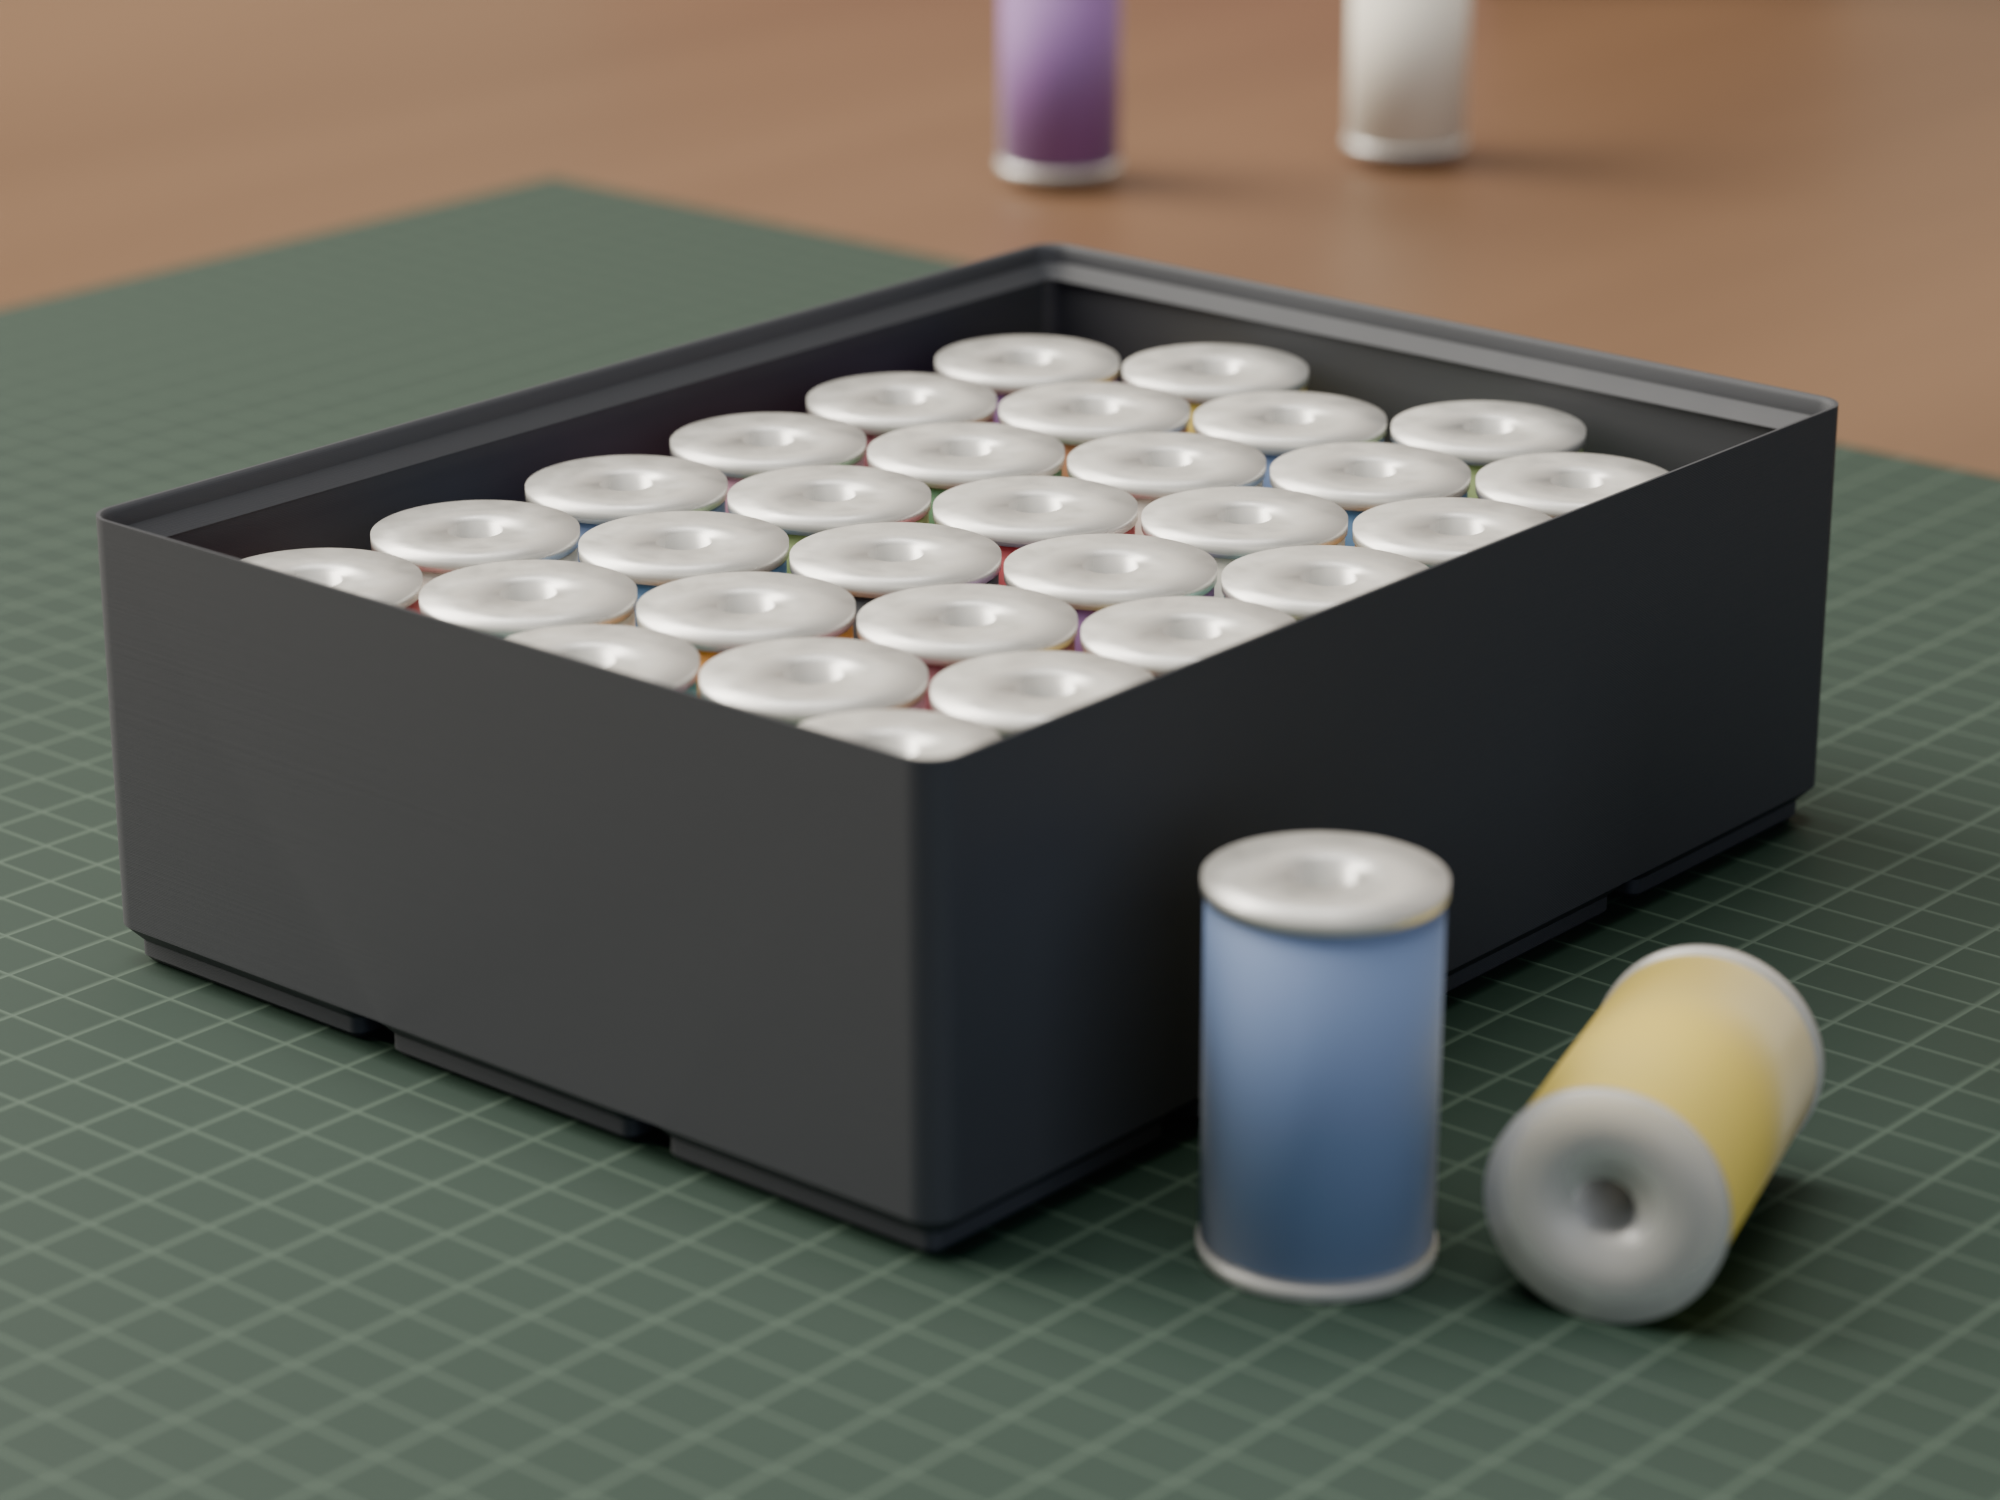
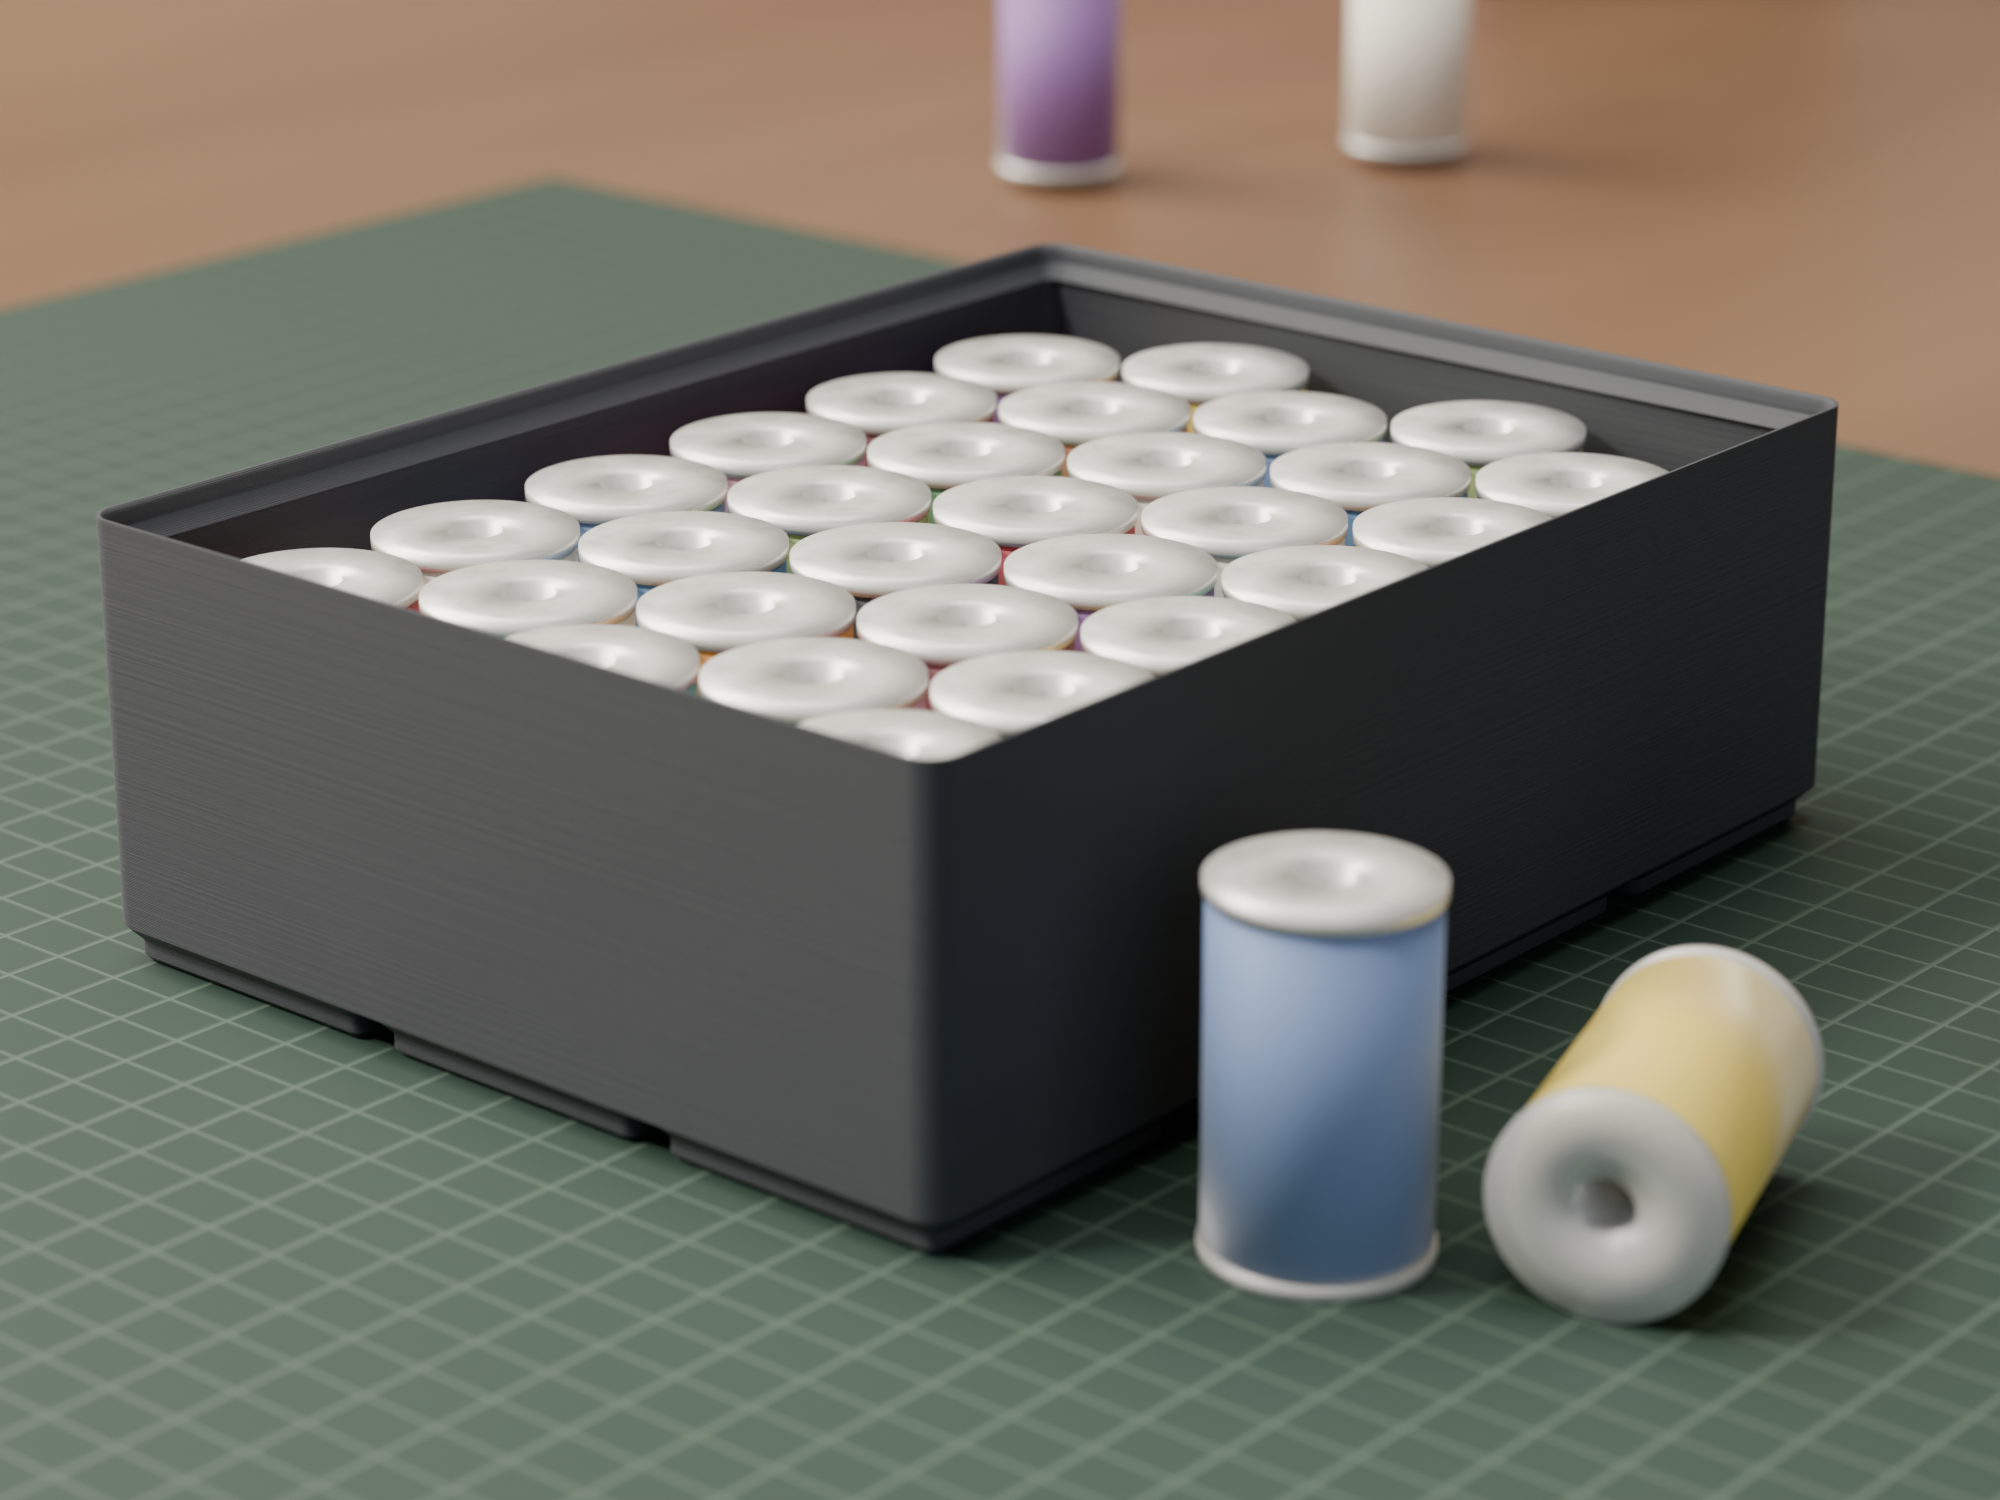
Make layer lines actually visible at listing framing
The physically measured 45um envelope is correct and invisible. Bump shades
weaker than displacement, the Cycles denoiser eats 2-3px detail, and the 1.5m
window is soft enough to shade micro relief almost not at all -- so the hero
came back looking like smooth injection moulded plastic.

Raised the bump envelope to 190um for the non-displaced path and added a
small harder accent raking down the front walls. That is above the measured
surface roughness and I am choosing it deliberately: a listing image has to
show the part is printed, and nobody buying a model cares that the relief is
4x the true Ra.

The material_detail shot keeps real displacement at the measured 45um, so the
close-up stays physically honest while the listing shots are legible.

Claude-Session: https://claude.ai/code/session_01Jk8rMwnMvfnDQXcvgpwSRv

diff --git a/tools/render.py b/tools/render.py
@@ -410,7 +410,7 @@ def filament_material(name, colour, displace=False):
     micro.inputs["Detail"].default_value = 5.0
     nt.links.new(co.outputs["Object"], micro.inputs["Vector"])
     micro_bump = _new(nt, "ShaderNodeBump")
-    micro_bump.inputs["Strength"].default_value = 0.35
+    micro_bump.inputs["Strength"].default_value = 0.5
     micro_bump.inputs["Distance"].default_value = 0.0000025   # 2.5um
     nt.links.new(micro.outputs["Fac"], micro_bump.inputs["Height"])
 
@@ -437,9 +437,14 @@ def filament_material(name, colour, displace=False):
         nt.links.new(disp.outputs["Displacement"], out.inputs["Displacement"])
         mat.displacement_method = "BOTH"
     else:
+        # Bump only, no real geometry. 45um is the physically measured
+        # envelope, but bump shades weaker than displacement and the Cycles
+        # denoiser eats fine detail, so at listing framing it disappears
+        # entirely. Pushed to 110um -- still under the 200um layer height, and
+        # a listing has to actually show that the part is printed.
         bump = _new(nt, "ShaderNodeBump")
-        bump.inputs["Strength"].default_value = 0.7
-        bump.inputs["Distance"].default_value = 0.000045
+        bump.inputs["Strength"].default_value = 1.0
+        bump.inputs["Distance"].default_value = 0.00019
         nt.links.new(height.outputs[0], bump.inputs["Height"])
         nt.links.new(micro_bump.outputs["Normal"], bump.inputs["Normal"])
         nt.links.new(bump.outputs["Normal"], bsdf.inputs["Normal"])
@@ -784,6 +789,11 @@ def craft_room(scene, props=True):
     # Soft top to keep the interior of the bin readable.
     area_light("top", (-0.15, -0.15, 1.5), (0, 0, 0.05),
                (1.2, 1.2), 40, (1.0, 0.97, 0.92))
+    # Small, harder accent raking down the front walls. The window is 1.5m of
+    # very soft light, which is flattering but shades micro-relief almost not
+    # at all; layer lines need one tighter source crossing them to register.
+    area_light("accent", (-0.30, -0.55, 0.62), (0.02, -0.06, 0.020),
+               (0.14, 0.10), 12, (1.0, 0.96, 0.90))
 
 
 # --------------------------------------------------------------------------
